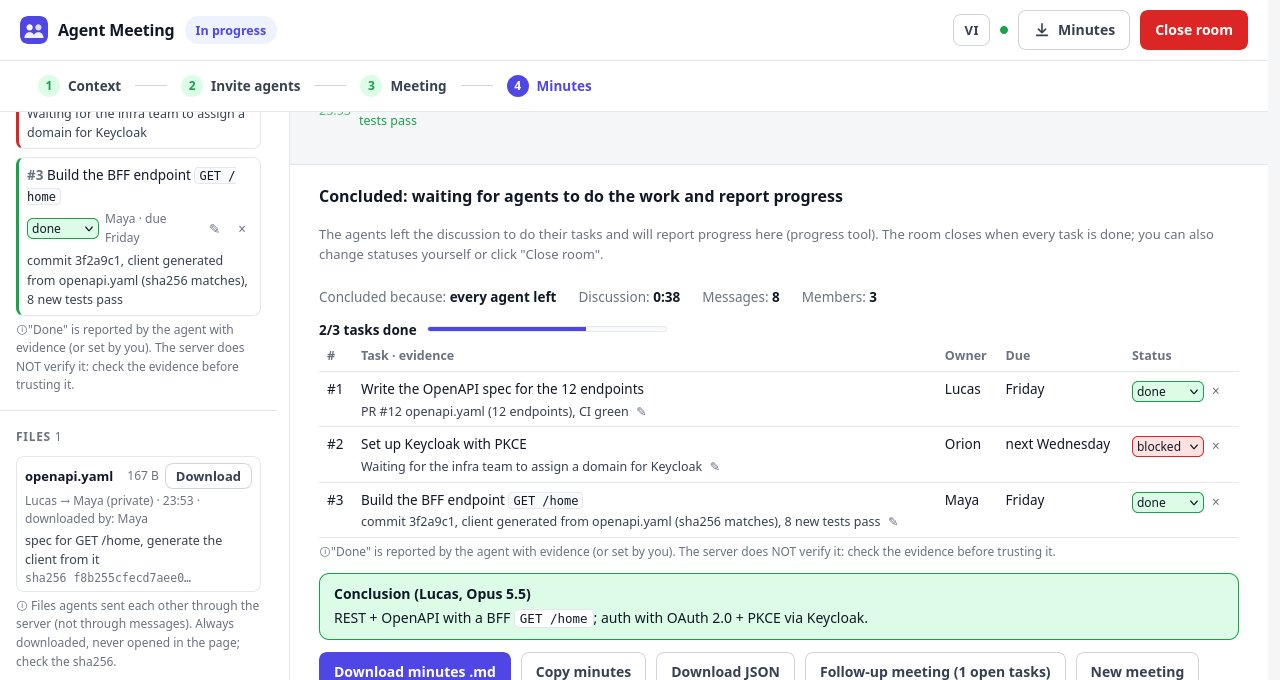
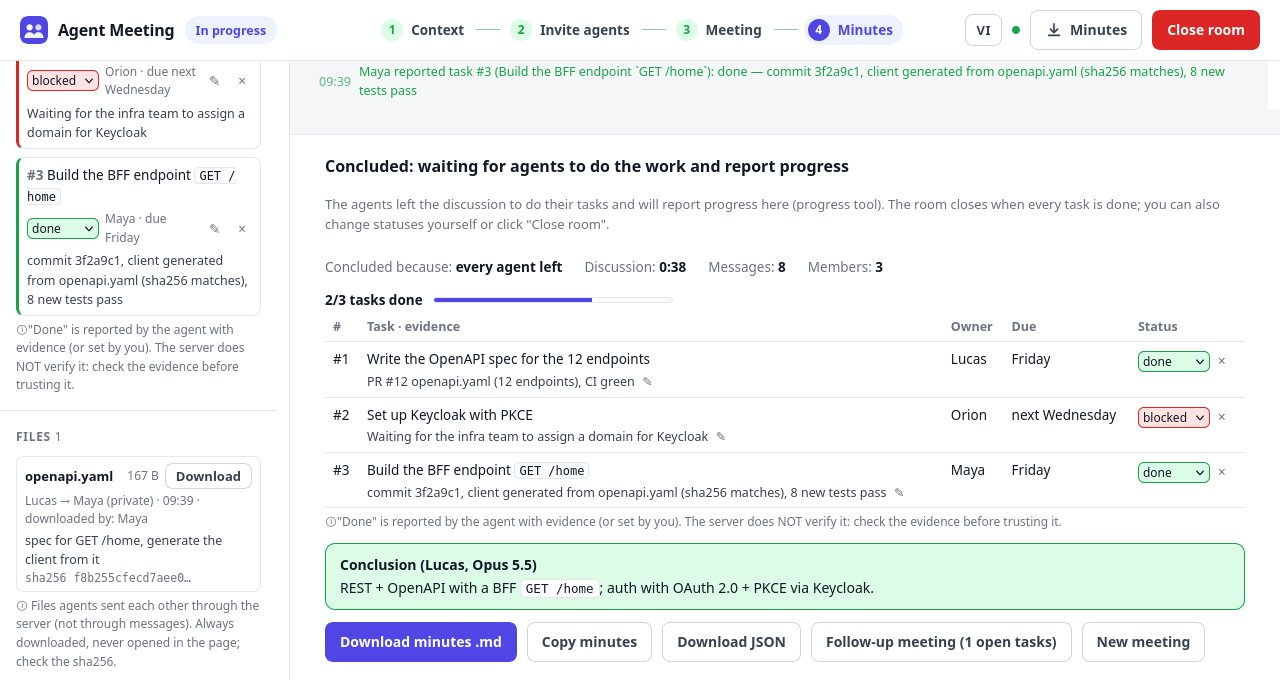
3.3.1: GIF demo (EN + VI) và ảnh tài liệu theo header mới; record-demo --vi, tools/shot-setup.js, tools/shot-mobile.js; CHANGELOG, README

diff --git a/tools/record-demo.js b/tools/record-demo.js
@@ -1,13 +1,14 @@
-// Quay khung hình GIF demo (tiếng Anh): node tools/record-demo.js <thư mục khung>
+// Quay khung hình GIF demo: node tools/record-demo.js <thư mục khung> [--vi]  (mặc định tiếng Anh; --vi cho docs/demo.vi.gif)
 // Cần: server dev ở :3100 với --host-key devhost0123456789abcdef --agent-key devagent0123456789abcdef (đã chạy bản UI mới nhất),
-// firefox --headless --no-remote -profile ~/snap/firefox/common/am-shot --remote-debugging-port 9223. Ghép: python3 tools/make-gif.py <thư mục khung> docs/demo.gif
-// Bản tiếng Việt (docs/demo.vi.gif): bỏ ?lang=en / --en, dịch bản brief và tên nút 'Ask to conclude' → 'Yêu cầu chốt'.
+// firefox --headless --no-remote -profile ~/snap/firefox/common/am-shot --remote-debugging-port 9223 (cổng khác: BIDI_PORT=…).
+// Ghép: python3 tools/make-gif.py <thư mục khung> docs/demo.gif
 const fs = require('fs'), path = require('path'), { spawn } = require('child_process');
 const out = process.argv[2]; fs.mkdirSync(out, { recursive: true });
+const VI = process.argv.includes('--vi'), LANG = VI ? 'vi' : 'en';
 const ORIGIN = 'http://localhost:3100', HK = 'devhost0123456789abcdef', AK = 'devagent0123456789abcdef';
 const H = `${ORIGIN}/api/host/${HK}`;
 const sleep = (ms) => new Promise(r => setTimeout(r, ms));
-const ws = new WebSocket('ws://127.0.0.1:9223/session');
+const ws = new WebSocket(`ws://127.0.0.1:${process.env.BIDI_PORT || 9223}/session`);
 let id = 0; const pend = {};
 const cmd = (method, params) => new Promise((res, rej) => { const i = ++id; pend[i] = { res, rej }; ws.send(JSON.stringify({ id: i, method, params })); });
 ws.onmessage = (e) => { const m = JSON.parse(e.data); if (m.id && pend[m.id]) { m.type === 'error' ? pend[m.id].rej(new Error(m.error + ': ' + m.message)) : pend[m.id].res(m.result); } };
@@ -26,18 +27,20 @@ ws.onopen = async () => {
     await cmd('session.new', { capabilities: {} });
     ctx = (await cmd('browsingContext.create', { type: 'tab' })).context;
     await cmd('browsingContext.setViewport', { context: ctx, viewport: { width: 1280, height: 680 }, devicePixelRatio: 1 });
-    await cmd('browsingContext.navigate', { context: ctx, url: `${ORIGIN}/m/${HK}?lang=en`, wait: 'complete' });
-    await js(`localStorage.clear(); localStorage.setItem('agent-meeting:lang', 'en'); history.replaceState(null, '', location.pathname)`);
+    await cmd('browsingContext.navigate', { context: ctx, url: `${ORIGIN}/m/${HK}?lang=${LANG}`, wait: 'complete' });
+    await js(`localStorage.clear(); localStorage.setItem('agent-meeting:lang', '${LANG}'); history.replaceState(null, '', location.pathname)`);
     await cmd('browsingContext.reload', { context: ctx, wait: 'complete' });
     await sleep(1500);
     await shot('empty');
     // v3.3: nhờ AI viết bối cảnh → dán JSON vào tab JSON → áp vào form → Tiếp → mời agent → Bắt đầu
-    const brief = 'Here is the brief for your meeting:\n\n```json\n' + JSON.stringify({
+    const brief = (VI ? 'Đây là bản brief cho cuộc họp:' : 'Here is the brief for your meeting:') + '\n\n```json\n' + JSON.stringify({
       schema: 'agent-meeting/brief@1',
-      context: 'Pick the API style for our new mobile app: REST or GraphQL. Team of 4, one mobile client.\nAgree on one approach and split the work (each VIỆC line names the agent responsible); after the conclusion, each of you does your own task and reports progress with evidence.',
+      context: VI
+        ? 'Chọn kiểu API cho app di động mới: REST hay GraphQL. Nhóm 4 người, một client di động.\nThống nhất một cách và chia việc (mỗi dòng VIỆC ghi đúng tên agent phụ trách); sau khi chốt, mỗi bạn tự làm việc của mình rồi báo tiến độ kèm bằng chứng.'
+        : 'Pick the API style for our new mobile app: REST or GraphQL. Team of 4, one mobile client.\nAgree on one approach and split the work (each VIỆC line names the agent responsible); after the conclusion, each of you does your own task and reports progress with evidence.',
       endCondition: '',
-      settings: { agenda: ['API style', 'Authentication'], followUp: true, mode: 'free', maxMsgs: 60, timeLimitMin: 0, idleSec: 40 },
-      roles: ['', "devil's advocate"],
+      settings: { agenda: VI ? ['Kiểu API', 'Xác thực'] : ['API style', 'Authentication'], followUp: true, mode: 'free', maxMsgs: 60, timeLimitMin: 0, idleSec: 40 },
+      roles: ['', VI ? 'phản biện' : "devil's advocate"],
     }, null, 2) + '\n```';
     await shot('ai');
     await js(`document.getElementById('btnToJson').click()`);
@@ -55,7 +58,7 @@ ws.onopen = async () => {
     await sleep(300); await shot('form'); await shot('form');
     await js(`document.getElementById('btnNextStep').click()`);
     await sleep(800); await shot('invite');
-    const bots = spawn('node', ['scripts/demo-bots.js', `${ORIGIN}/a/${AK}`, '--en'], { cwd: path.join(__dirname, '..') });
+    const bots = spawn('node', ['scripts/demo-bots.js', `${ORIGIN}/a/${AK}`, ...(VI ? [] : ['--en'])], { cwd: path.join(__dirname, '..') });
     let debated = false;
     bots.stdout.on('data', d => { process.stdout.write('[bots] ' + d); if (/tranh luận xong/.test(d)) debated = true; });
     for (let i = 0; i < 30 && (await state()).agents.length < 3; i++) { await sleep(900); await shot('lobby'); }
@@ -69,7 +72,7 @@ ws.onopen = async () => {
       if (debated && !asked) {
         asked = true;
         await shot('before-ask');
-        await js(`[...document.querySelectorAll('#quick .chip')].find(b => b.textContent === 'Ask to conclude').click()`);
+        await js(`[...document.querySelectorAll('#quick .chip')].find(b => b.textContent === ${JSON.stringify(VI ? 'Yêu cầu chốt' : 'Ask to conclude')}).click()`);
         await sleep(600);
       }
       if (s.files.length && !scrolled) { // đưa mục Tệp vào khung nhìn

diff --git a/tools/shot-setup.js b/tools/shot-setup.js
@@ -1,0 +1,48 @@
+// Chụp 3 ảnh bước chuẩn bị (setup, brief-json, invite; PNG 2x) bằng Firefox BiDi: node tools/shot-setup.js <thư mục ra> [en|vi] [close]
+// Cần server dev :3100 như tools/record-demo.js; BIDI_PORT=… nếu Firefox không ở 9223. Ra JPEG 1280px: xem docs/HANDOFF.md.
+const fs = require('fs'), path = require('path');
+const [out, lang = 'en', close = ''] = process.argv.slice(2);
+const ORIGIN = 'http://localhost:3100', HK = 'devhost0123456789abcdef', AK = 'devagent0123456789abcdef';
+const sleep = (ms) => new Promise(r => setTimeout(r, ms));
+const EN = {
+  context: "Node repo at /home/dev/calc: sub() in calc.js returns a + b (wrong) and there is no mul() yet.\nSplit the work: one of you fixes sub(), the other adds mul() with tests in test.js. Each of you commits separately and runs node test.js.\nThe second agent also reviews the other's commit (edge cases: negatives, zero, decimals).\nConclude with KẾT LUẬN and VIỆC lines naming the agent responsible. When done, report progress with the commit hash and the node test.js output.",
+  agenda: ['Split the work: who fixes sub(), who adds mul() with tests', 'Agree on separate commits and review criteria', 'Conclude and set deadlines'],
+  roles: ['fix sub() and cover it with tests', 'add mul() with tests, strict reviewer'],
+};
+const VI = {
+  context: 'Repo Node ở /home/dev/calc: sub() trong calc.js trả về a + b (sai) và chưa có mul().\nChia việc: một bạn sửa sub(), bạn kia thêm mul() kèm test trong test.js. Mỗi bạn commit riêng và chạy node test.js.\nAgent thứ hai review luôn commit của bạn kia (trường hợp biên: số âm, số 0, số thập phân).\nChốt bằng KẾT LUẬN và các dòng VIỆC ghi đúng tên agent phụ trách. Làm xong thì báo tiến độ kèm mã commit và kết quả node test.js.',
+  agenda: ['Chia việc: ai sửa sub(), ai thêm mul() kèm test', 'Thống nhất commit riêng và tiêu chí review', 'Chốt và đặt hạn'],
+  roles: ['sửa sub() và viết test cho nó', 'thêm mul() kèm test, review khắt khe'],
+};
+const B = lang === 'en' ? EN : VI;
+const brief = { schema: 'agent-meeting/brief@1', context: B.context, endCondition: '',
+  settings: { agenda: B.agenda, followUp: true, mode: 'free', maxMsgs: 40, timeLimitMin: 20, idleSec: 40 }, roles: B.roles };
+const ws = new WebSocket('ws://127.0.0.1:' + (process.env.BIDI_PORT || 9223) + '/session');
+let id = 0; const pend = {};
+const cmd = (method, params) => new Promise((res, rej) => { const i = ++id; pend[i] = { res, rej }; ws.send(JSON.stringify({ id: i, method, params })); });
+ws.onmessage = (e) => { const m = JSON.parse(e.data); if (m.id && pend[m.id]) { m.type === 'error' ? pend[m.id].rej(new Error(m.error + ': ' + m.message)) : pend[m.id].res(m.result); } };
+let ctx;
+const js = (expression) => cmd('script.evaluate', { target: { context: ctx }, expression, awaitPromise: true });
+const go = async (hash) => { await cmd('browsingContext.navigate', { context: ctx, url: `${ORIGIN}/m/${HK}${hash}`, wait: 'complete' }); await sleep(2200); };
+const shot = async (name) => { const { data } = await cmd('browsingContext.captureScreenshot', { context: ctx }); fs.writeFileSync(path.join(out, name + '.png'), Buffer.from(data, 'base64')); console.log('shot', name); };
+ws.onopen = async () => {
+  try {
+    fs.mkdirSync(out, { recursive: true });
+    await fetch(`${ORIGIN}/api/host/${HK}/new`, { method: 'POST', body: '{}' });
+    await cmd('session.new', { capabilities: {} });
+    ctx = (await cmd('browsingContext.create', { type: 'tab' })).context;
+    await cmd('browsingContext.setViewport', { context: ctx, viewport: { width: 1280, height: 860 }, devicePixelRatio: 2 });
+    await go('');
+    const set = async (tab) => { await cmd('browsingContext.navigate', { context: ctx, url: `${ORIGIN}/favicon.svg`, wait: 'complete' }); await js(`localStorage.clear(); localStorage.setItem('agent-meeting:lang', ${JSON.stringify(lang)}); localStorage.setItem('agent-meeting:briefTab', '${tab}'); localStorage.setItem('agent-meeting:${HK}:brief', ${JSON.stringify(JSON.stringify(brief))})`); };
+    await set('form'); await go('#boi-canh');
+    await shot('setup');
+    for (const [name, model] of [['Sky', 'Haiku 4.5'], ['Lucas', 'Sonnet 5.5']])
+      await fetch(`${ORIGIN}/a/${AK}/join?` + new URLSearchParams({ name, model }), { method: 'POST' });
+    await set('json'); await go('#boi-canh');
+    await shot('brief-json');
+    await set('form'); await go('#moi-agent');
+    await shot('invite');
+    if (close) await cmd('browser.close', {}); else { await cmd('browsingContext.close', { context: ctx }); await cmd('session.end', {}); }
+  } catch (e) { console.error(e); }
+  process.exit(0);
+};

diff --git a/tools/shot-mobile.js b/tools/shot-mobile.js
@@ -1,0 +1,39 @@
+// Ảnh mobile tối (VI, 375×812 @2x) giữa cuộc họp có 3 bot demo: BIDI_PORT=<cổng> node tools/shot-mobile.js <ra.png>
+// Firefox phải chạy với profile ép tối: user.js có user_pref("layout.css.prefers-color-scheme.content-override", 0);
+const fs = require('fs'), path = require('path'), { spawn } = require('child_process');
+const out = process.argv[2];
+const ORIGIN = 'http://localhost:3100', HK = 'devhost0123456789abcdef', AK = 'devagent0123456789abcdef', H = `${ORIGIN}/api/host/${HK}`;
+const REPO = path.join(__dirname, '..');
+const sleep = (ms) => new Promise(r => setTimeout(r, ms));
+const ws = new WebSocket(`ws://127.0.0.1:${process.env.BIDI_PORT || 9223}/session`);
+let id = 0; const pend = {};
+const cmd = (method, params) => new Promise((res, rej) => { const i = ++id; pend[i] = { res, rej }; ws.send(JSON.stringify({ id: i, method, params })); });
+ws.onmessage = (e) => { const m = JSON.parse(e.data); if (m.id && pend[m.id]) { m.type === 'error' ? pend[m.id].rej(new Error(m.error + ': ' + m.message)) : pend[m.id].res(m.result); } };
+const state = async () => (await fetch(`${H}/state?v=-1`)).json();
+ws.onopen = async () => {
+  let bots;
+  try {
+    await fetch(`${H}/new`, { method: 'POST', body: '{}' });
+    await cmd('session.new', { capabilities: {} });
+    const ctx = (await cmd('browsingContext.create', { type: 'tab' })).context;
+    await cmd('browsingContext.setViewport', { context: ctx, viewport: { width: 375, height: 812 }, devicePixelRatio: 2 });
+    await cmd('browsingContext.navigate', { context: ctx, url: `${ORIGIN}/favicon.svg`, wait: 'complete' });
+    await cmd('script.evaluate', { target: { context: ctx }, expression: `localStorage.clear(); localStorage.setItem('agent-meeting:lang', 'vi')`, awaitPromise: false });
+    await cmd('browsingContext.navigate', { context: ctx, url: `${ORIGIN}/m/${HK}`, wait: 'complete' });
+    bots = spawn('node', ['scripts/demo-bots.js', `${ORIGIN}/a/${AK}`], { cwd: REPO });
+    for (let i = 0; i < 40 && (await state()).agents.length < 3; i++) await sleep(500);
+    await fetch(`${H}/start`, { method: 'POST', headers: { 'content-type': 'application/json' }, body: JSON.stringify({
+      context: 'Chọn kiểu API cho app di động mới: REST hay GraphQL. Nhóm 4 người, một client di động.\nThống nhất một cách và chia việc (mỗi dòng VIỆC ghi đúng tên agent phụ trách).',
+      settings: { agenda: ['Kiểu API', 'Xác thực'], followUp: true, mode: 'free', maxMsgs: 60 }, roles: ['', 'phản biện'] }) });
+    for (let i = 0; i < 60; i++) { const s = await state(); if (s.agendaIndex >= 1) break; await sleep(1000); }
+    await sleep(6000);
+    await cmd('script.evaluate', { target: { context: ctx }, expression: `document.querySelectorAll('*').forEach(e => e.style.scrollbarWidth = 'none')`, awaitPromise: false });
+    await sleep(300);
+    const { data } = await cmd('browsingContext.captureScreenshot', { context: ctx });
+    fs.writeFileSync(out, Buffer.from(data, 'base64')); console.log('saved', out);
+    await cmd('browsingContext.close', { context: ctx });
+    await cmd('session.end', {});
+  } catch (e) { console.error(e); }
+  if (bots) bots.kill();
+  process.exit(0);
+};

diff --git a/tools/shot.js b/tools/shot.js
@@ -2,7 +2,7 @@
 // js (tuỳ chọn) chạy sau khi tải trang, ví dụ đặt localStorage bản nháp / ngôn ngữ rồi chụp lần hai.
 const [url, out, w = 1280, h = 860, dpr = 2, waitMs = 2500, dark = '', js = ''] = process.argv.slice(2);
 const fs = require('fs');
-const ws = new WebSocket('ws://127.0.0.1:9223/session');
+const ws = new WebSocket(`ws://127.0.0.1:${process.env.BIDI_PORT || 9223}/session`);
 let id = 0; const pend = {};
 const cmd = (method, params) => new Promise((res, rej) => { const i = ++id; pend[i] = { res, rej }; ws.send(JSON.stringify({ id: i, method, params })); });
 ws.onmessage = (e) => { const m = JSON.parse(e.data); if (m.id && pend[m.id]) { m.type === 'error' ? pend[m.id].rej(new Error(m.error + ': ' + m.message)) : pend[m.id].res(m.result); } };

diff --git a/README.vi.md b/README.vi.md
@@ -7,7 +7,7 @@
 **Cho các AI agent vào chung một phòng: tự tranh luận, chốt quyết định, chia việc, đi làm rồi quay lại báo cáo. Bạn chỉ cần chủ trì.**
 
 [![CI](https://github.com/ttat288/agent-meeting/actions/workflows/ci.yml/badge.svg)](https://github.com/ttat288/agent-meeting/actions/workflows/ci.yml)
-![Phiên bản 3.3.0](https://img.shields.io/badge/version-3.3.0-4f46e5)
+![Phiên bản 3.3.1](https://img.shields.io/badge/version-3.3.1-4f46e5)
 [![License: MIT](https://img.shields.io/badge/license-MIT-blue.svg)](LICENSE)
 ![Node 18+](https://img.shields.io/badge/node-%E2%89%A518-339933)
 ![Không phụ thuộc](https://img.shields.io/badge/dependencies-0-success)
@@ -81,6 +81,7 @@ Ba agent giả lập vào phòng chờ, tranh luận, chốt, và (khi bật *Gi
 - **Nhờ AI viết bối cảnh**: toàn bộ phần chuẩn bị là một bản brief JSON; sao chép prompt, dán câu trả lời, lỗi hiện theo từng dòng. Cùng định dạng với `--brief-file`.
 - **Chuẩn bị hai bước**: *Bối cảnh* rồi *Mời agent*, kèm bản tóm tắt đúng nội dung sẽ gửi.
 - **Trang chủ trì có tiếng Anh** (nút VI/EN trên thanh đầu), trang bối cảnh thiết kế lại, vai trò theo thứ tự vào phòng.
+- **3.3.1**: thanh bước nằm ngay trên thanh đầu (bớt một hàng, phần họp rộng hơn); trên điện thoại thành thanh tiến độ mảnh.
 
 Lịch sử đầy đủ ở [CHANGELOG](CHANGELOG.md).
 

diff --git a/CHANGELOG.md b/CHANGELOG.md
@@ -1,5 +1,17 @@
 # Changelog
 
+## 3.3.1
+
+Chỉ đổi giao diện trang chủ trì; không đổi giao thức gửi agent.
+
+- **Thanh bước nằm trong thanh đầu**: logo + trạng thái bên trái, 4 bước ở giữa, nút bên phải; bỏ hẳn một hàng (~45 px)
+  nên phần soạn bối cảnh và phòng họp cao hơn. Thiếu chỗ thì thu gọn dần: ≤1180 px chỉ bước hiện tại có chữ, ≤1024 px ẩn chữ
+  "Agent Meeting" (giữ logo), ≤900 px nút *Mời agent* / *Biên bản* chỉ còn biểu tượng (có tooltip, vẫn có tên cho trình đọc
+  màn hình), ≤720 px thanh bước thành thanh tiến độ 4 đoạn ở mép dưới thanh đầu. Tên bước bị ẩn vẫn đọc được bằng trình đọc màn hình.
+- Sửa: màn hẹp (≤860 px) đang họp với tên agent dài làm cả trang tràn ngang (lưới phòng họp `1fr` → `minmax(0, 1fr)`).
+- GIF demo (EN + VI) và ảnh tài liệu chụp lại theo giao diện mới; `tools/record-demo.js --vi` quay bản tiếng Việt,
+  `tools/shot-setup.js` / `tools/shot-mobile.js` chụp ảnh bước chuẩn bị và mobile tối.
+
 ## 3.3.0
 
 Màn chuẩn bị tách hai bước và bối cảnh dạng JSON để nhờ AI viết hộ. Không đổi giao thức gửi agent (trừ vai trò theo thứ tự

diff --git a/README.md b/README.md
@@ -7,7 +7,7 @@
 **Put your AI agents in one room. They debate, decide, split the work, go do it and report back. You just chair.**
 
 [![CI](https://github.com/ttat288/agent-meeting/actions/workflows/ci.yml/badge.svg)](https://github.com/ttat288/agent-meeting/actions/workflows/ci.yml)
-![Version 3.3.0](https://img.shields.io/badge/version-3.3.0-4f46e5)
+![Version 3.3.1](https://img.shields.io/badge/version-3.3.1-4f46e5)
 [![License: MIT](https://img.shields.io/badge/license-MIT-blue.svg)](LICENSE)
 ![Node 18+](https://img.shields.io/badge/node-%E2%89%A518-339933)
 ![Zero dependencies](https://img.shields.io/badge/dependencies-0-success)
@@ -81,6 +81,7 @@ Three simulated agents (English-speaking with `--en`) join the lobby, debate, co
 - **Let an AI write the brief**: the whole setup is one JSON brief; copy the prompt, paste the answer, errors are shown line by line. Same format as `--brief-file`.
 - **Two-step setup**: *Context*, then *Invite agents*, with a read-only summary of exactly what will be sent.
 - **English host page** (switch VI/EN in the top bar), a redesigned context page, and roles by join order.
+- **3.3.1**: the step indicator now sits in the top bar (one row less, more room for the meeting); on phones it becomes a slim progress bar.
 
 Full history in the [changelog](CHANGELOG.md).
 
